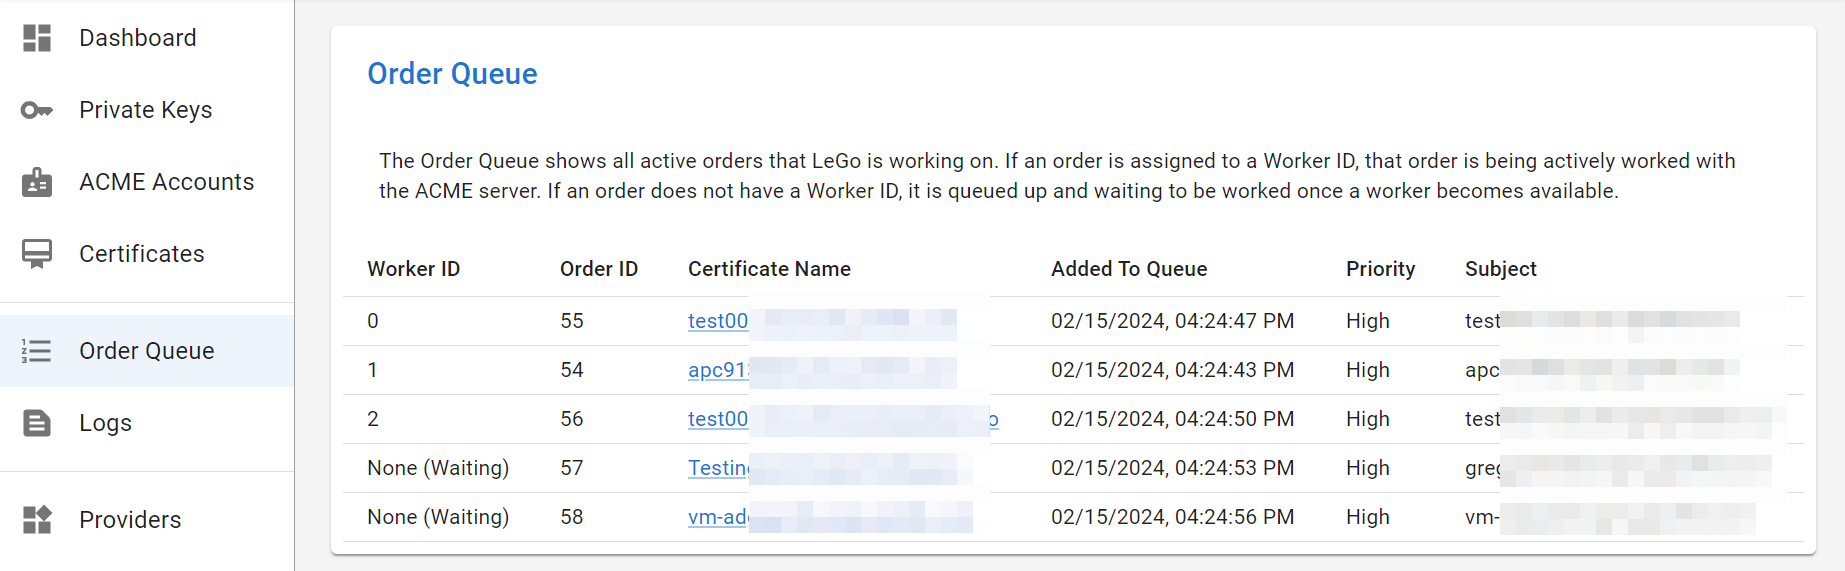
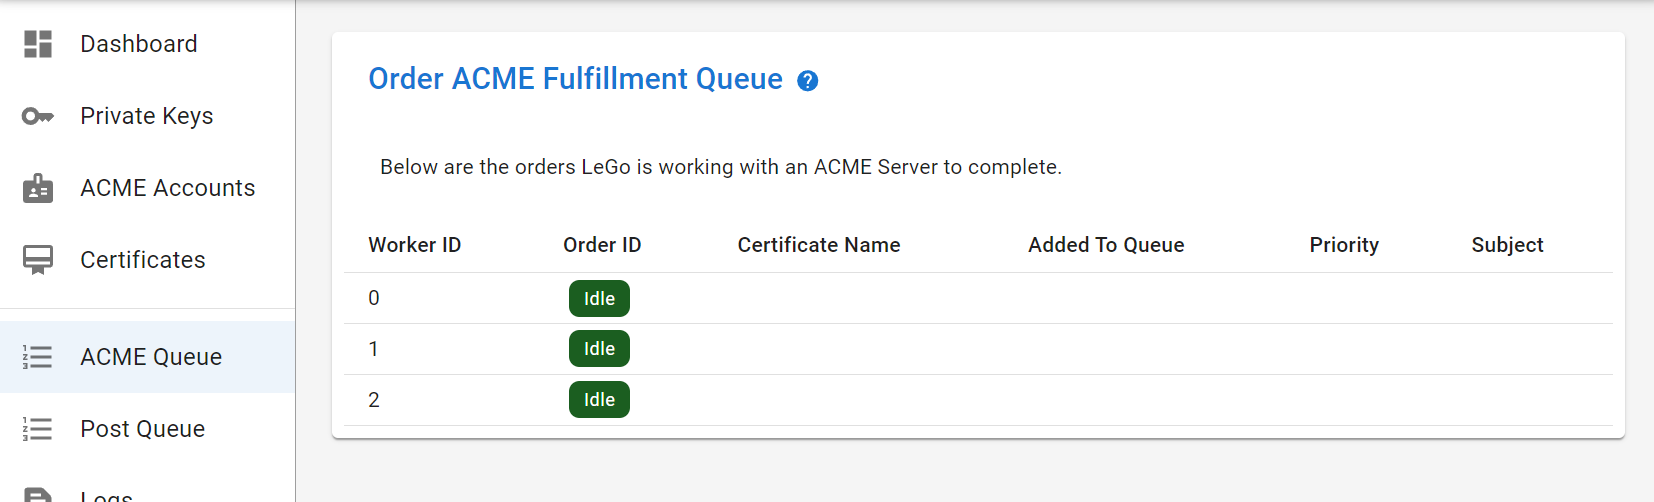
update queue screenshots

diff --git a/docs/3_user_interface/7_order_post_queue.md b/docs/3_user_interface/7_order_post_queue.md
@@ -20,4 +20,4 @@ added it) are low priority.
 This page is a useful place to check ongoing work, without having to
 parse the log file(s).
 
-![Order Queue Page](/img/screenshots/order_queue.png)
+![Order Queue Page](/img/screenshots/order_post_queue.png)
